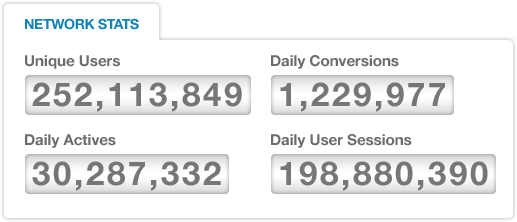
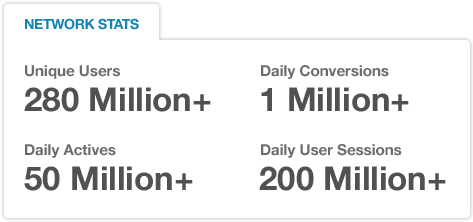
Update network stats and fix FF bug with popup form

diff --git a/tapjoyads/public/stylesheets/advertisers.css b/tapjoyads/public/stylesheets/advertisers.css
@@ -1,5 +1,5 @@
 #a_dvertisers { float: left; margin-top: 42px; width: 980px; }
-#about { clear: left; float: left; font-size: 14px; margin-top: 15px; width: 449px; }
+#about { clear: left; float: left; font-size: 14px; margin-top: 15px; width: 480px; }
 #about p { color: #828282; line-height: 27px; float: left; margin-top: 15px; }
 #about a { color: #6c6c6c; font-weight: bold; }
 #about a label { color: #0077b1; }
@@ -11,8 +11,8 @@
 
 h2 { clear: both; }
 
-.section { background: #f6f6f6; border-radius: 5px; box-shadow: inset 0 0 5px #C1C1C1; float: left; margin-top: 59px; width: 477px; }
-.section_right { margin-left: 25px; }
+.section { background: #f6f6f6; border-radius: 5px; box-shadow: inset 0 0 5px #C1C1C1; clear: both; float: left; margin-top: 49px; width: 477px; }
+.section_right { clear: none; margin-left: 25px; }
 .section img { float: left; margin: 15px 0 0 15px; }
 .right { float: left; margin-left: 7px; width: 345px; }
 .right h2 { margin-top: 18px; }
@@ -45,6 +45,7 @@ h2 { clear: both; }
 
 /** form **/
 
+#contact_form { clear: both; }
 #contact_form input, #contact_form label { font-size: 12px; margin-bottom: 5px; }
 .content h2 { margin-top: 18px; }
 .content p { color: #606060; float: left; font-size: 16px; line-height: 19px; margin: 12px 0 12px 0; width: 345px; }
